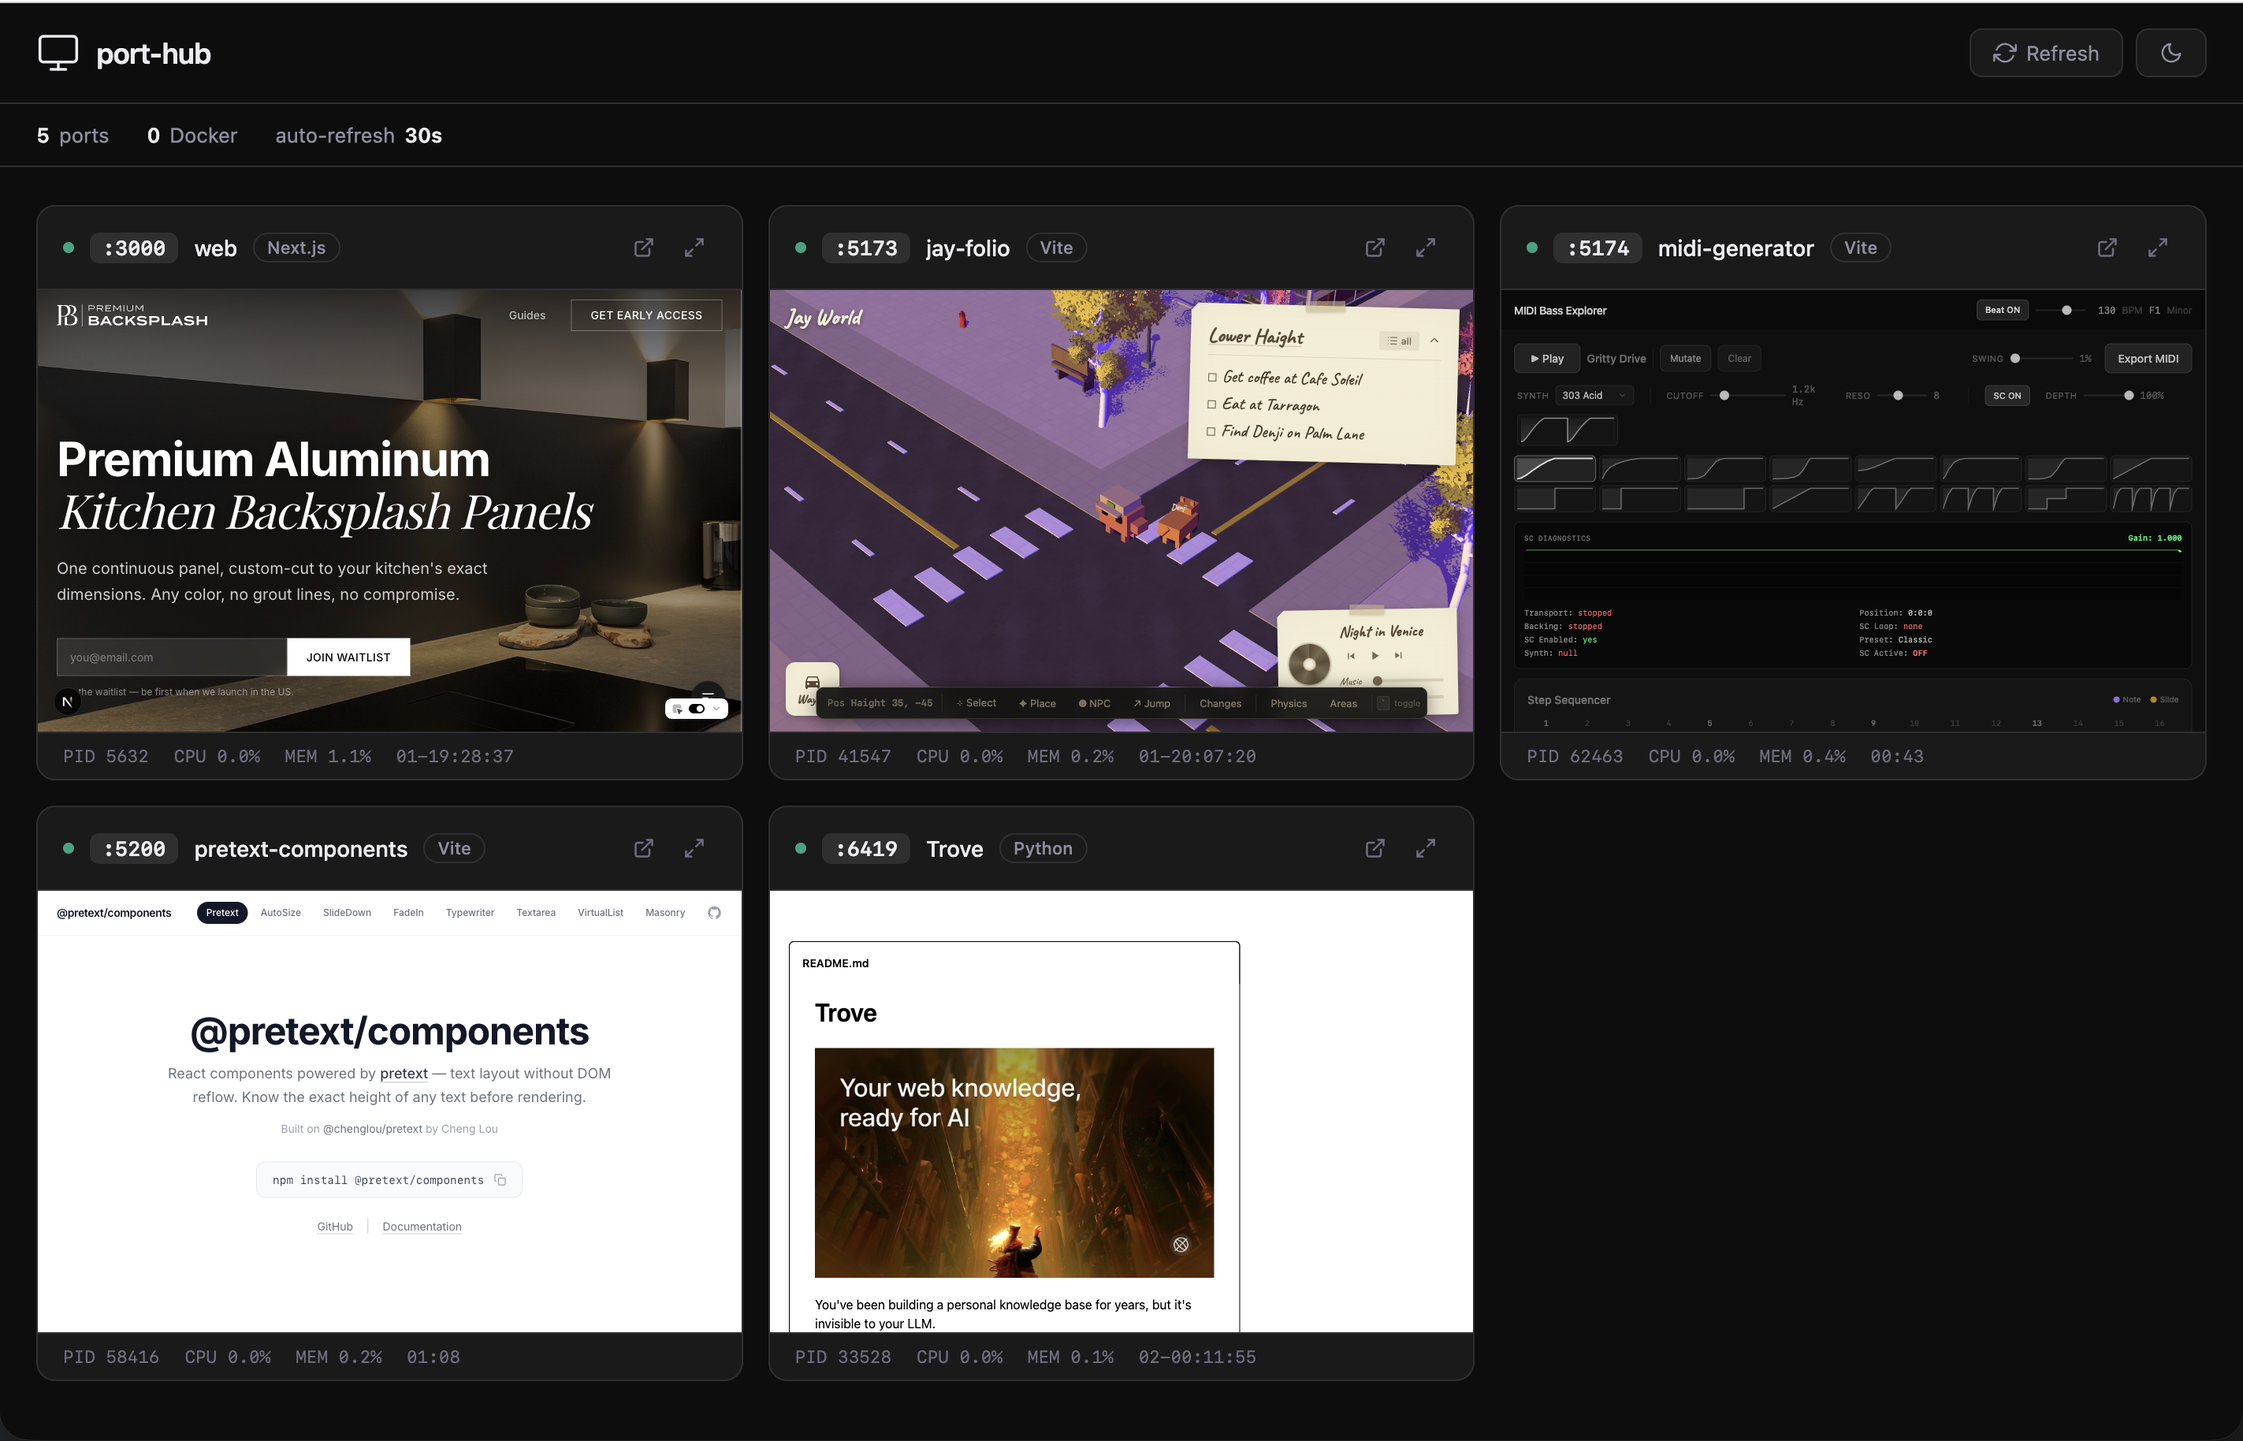
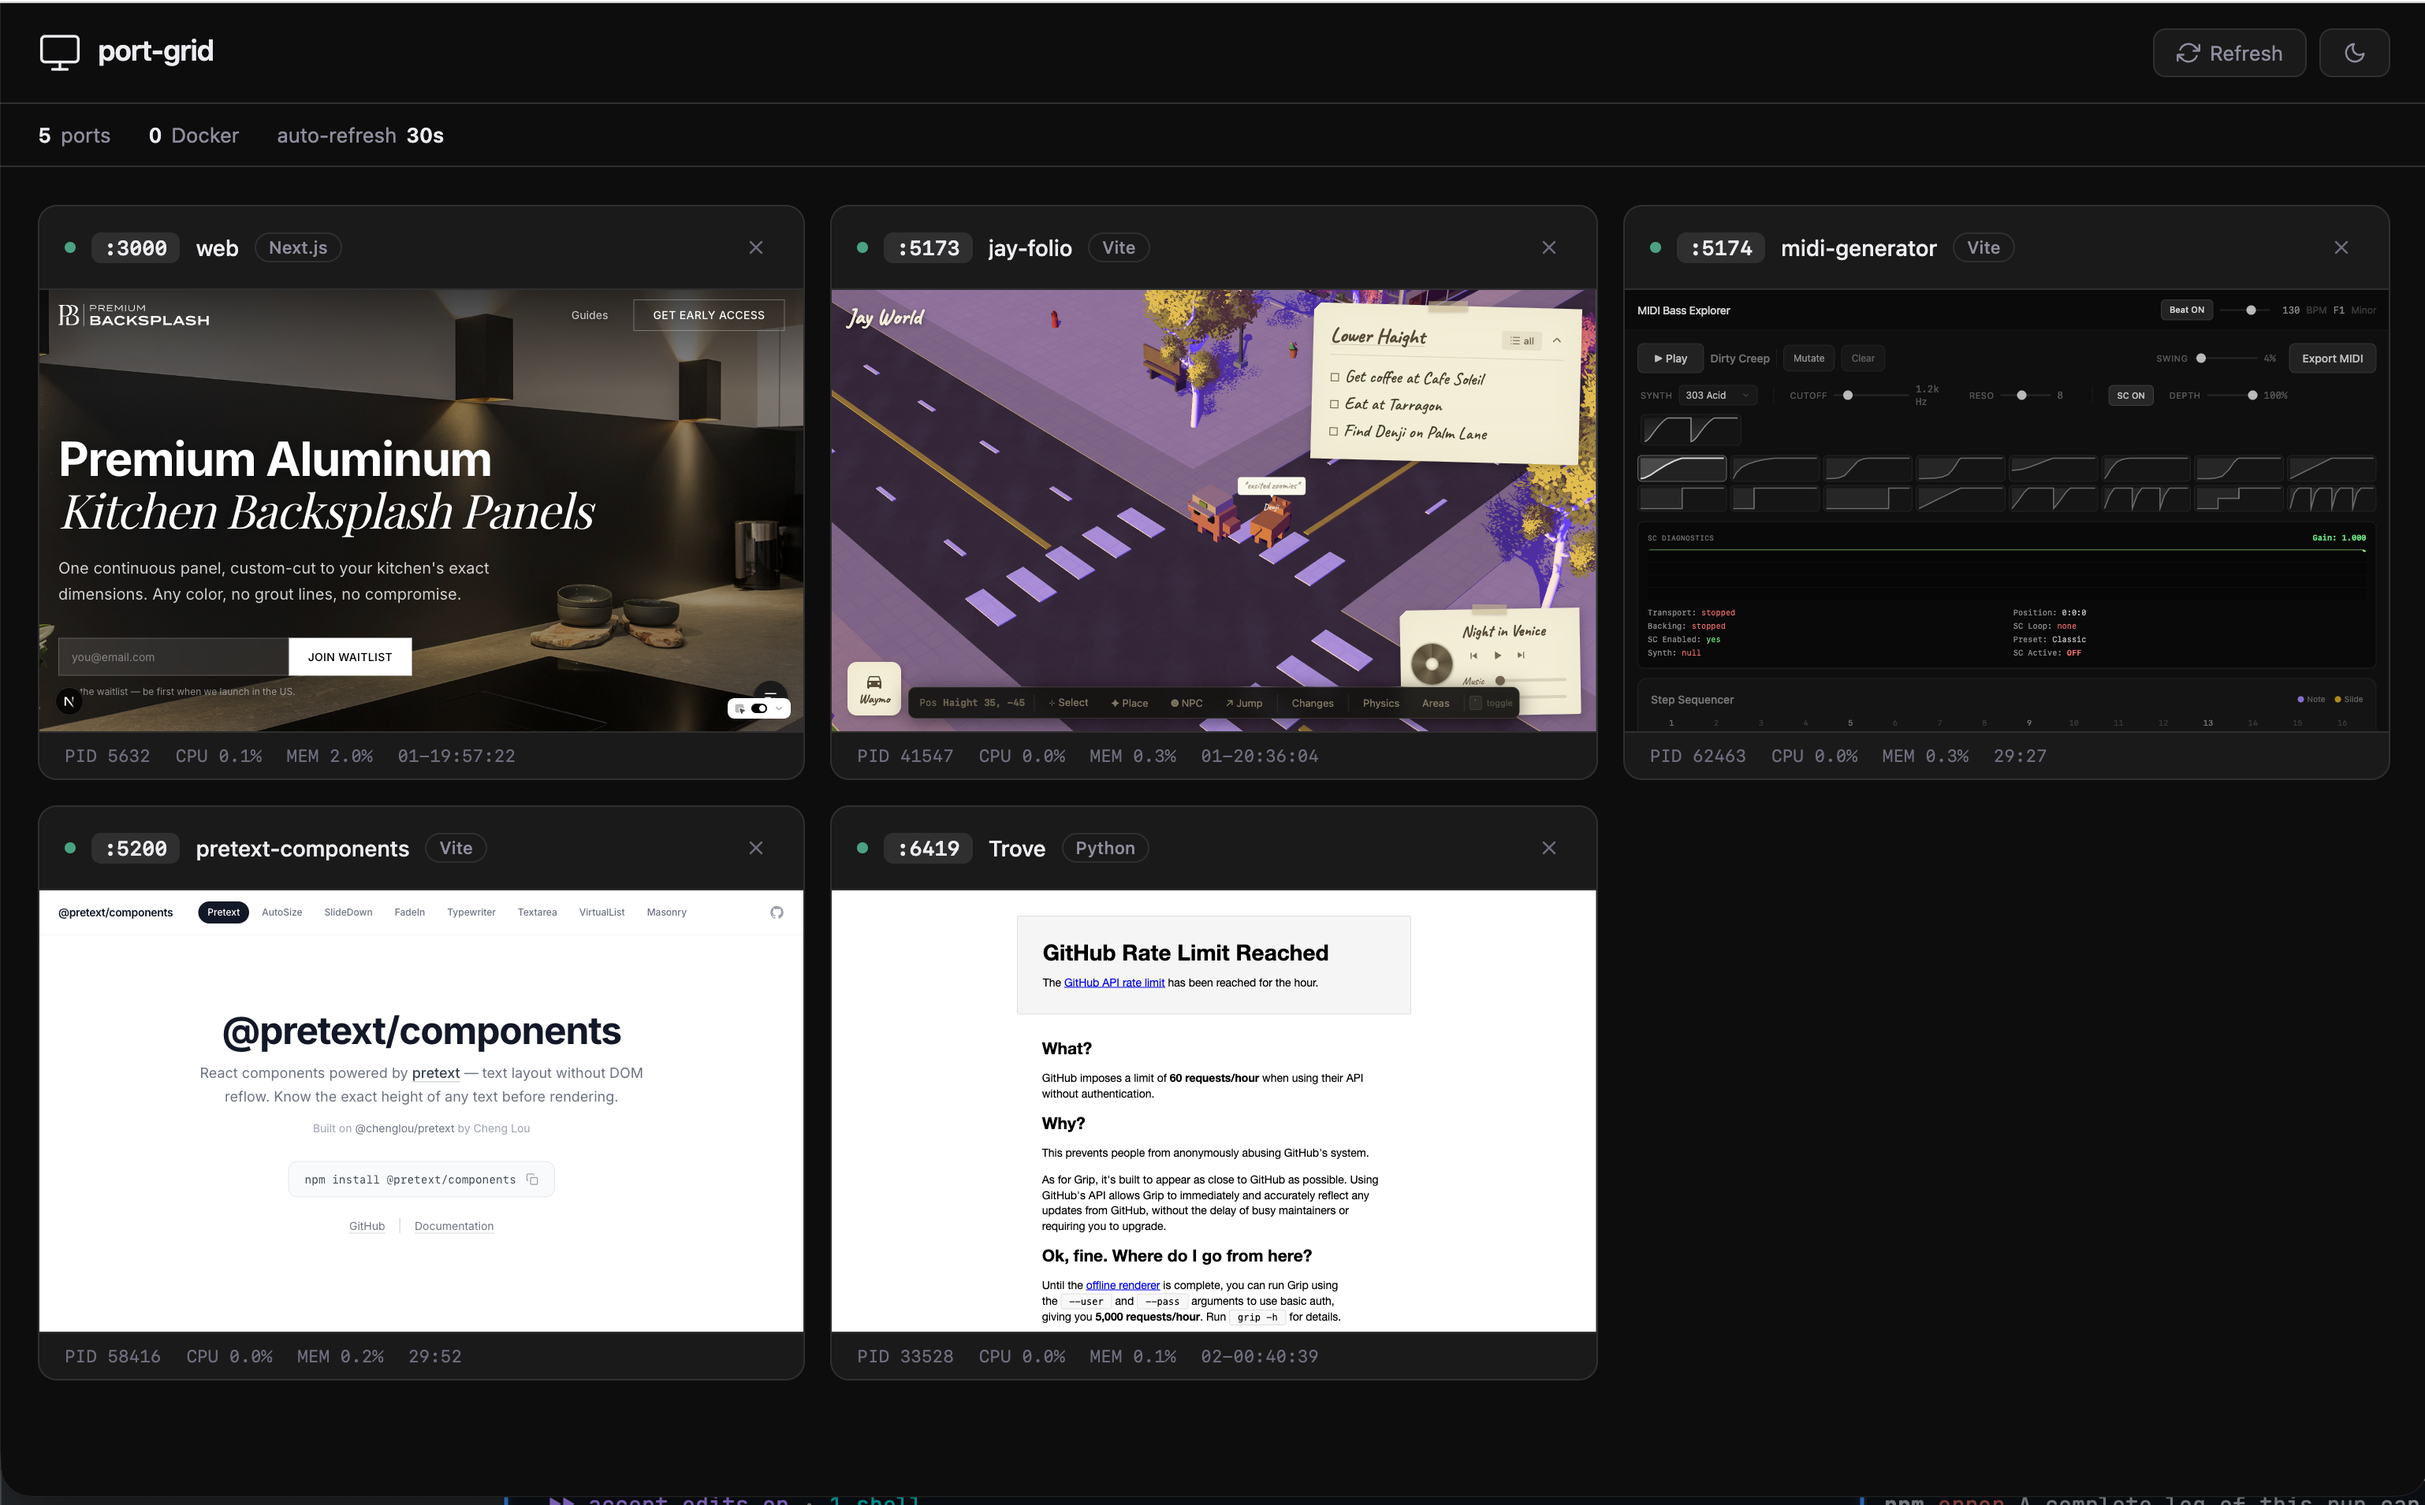
Add kill button, remove modal, clickable cards, loading state

diff --git a/server.js b/server.js
@@ -21,6 +21,24 @@ const server = createServer(async (req, res) => {
     return;
   }
 
+  if (url.pathname === "/api/kill" && req.method === "POST") {
+    const pid = url.searchParams.get("pid");
+    if (!pid || isNaN(pid)) {
+      res.writeHead(400, { "Content-Type": "application/json" });
+      res.end(JSON.stringify({ error: "Invalid PID" }));
+      return;
+    }
+    try {
+      process.kill(parseInt(pid, 10), "SIGTERM");
+      res.writeHead(200, { "Content-Type": "application/json" });
+      res.end(JSON.stringify({ ok: true, pid }));
+    } catch (e) {
+      res.writeHead(500, { "Content-Type": "application/json" });
+      res.end(JSON.stringify({ error: e.message }));
+    }
+    return;
+  }
+
   // Serve the SPA
   res.writeHead(200, { "Content-Type": "text/html" });
   res.end(getHTML());
@@ -100,7 +118,7 @@ function getHTML() {
   }
   .logo { display: flex; align-items: center; gap: 10px; }
   .logo svg { width: 28px; height: 28px; }
-  .logo h1 { font-size: 18px; font-weight: 600; letter-spacing: -0.02em; }
+  .logo h1 { font-size: 18px; font-weight: 600; letter-spacing: -0.02em; position: relative; top: -2px; }
   .header-actions { display: flex; align-items: center; gap: 8px; }
 
   /* Buttons */
@@ -140,6 +158,7 @@ function getHTML() {
     overflow: hidden;
     transition: box-shadow 0.2s, border-color 0.2s;
     display: flex; flex-direction: column;
+    cursor: pointer;
   }
   .card:hover { box-shadow: var(--shadow-hover); border-color: var(--border-hover); }
 
@@ -182,15 +201,16 @@ function getHTML() {
   }
   .status-dot.docker { background: var(--dot-docker); }
 
-  .card-actions { display: flex; gap: 4px; }
+  .card-actions { display: flex; align-items: center; gap: 4px; flex-shrink: 0; }
   .card-btn {
     width: 28px; height: 28px; border-radius: 6px; border: none;
     background: transparent; color: var(--text-tertiary);
-    cursor: pointer; display: flex; align-items: center; justify-content: center;
-    transition: all 0.15s;
+    cursor: pointer; display: inline-flex; align-items: center; justify-content: center;
+    transition: all 0.15s; padding: 0; line-height: 1;
   }
   .card-btn:hover { background: var(--accent-subtle); color: var(--text); }
-  .card-btn svg { width: 14px; height: 14px; }
+  .card-btn.kill-btn:hover { background: rgba(239,68,68,0.1); color: #ef4444; }
+  .card-btn svg { width: 14px; height: 14px; display: block; }
 
   /* Iframe preview */
   .card-preview {
@@ -246,30 +266,6 @@ function getHTML() {
   }
   @keyframes spin { to { transform: rotate(360deg); } }
 
-  /* Expanded view modal */
-  .modal-overlay {
-    position: fixed; inset: 0; z-index: 200;
-    background: rgba(0,0,0,0.6); backdrop-filter: blur(4px);
-    display: flex; align-items: center; justify-content: center;
-    opacity: 0; pointer-events: none;
-    transition: opacity 0.2s;
-  }
-  .modal-overlay.open { opacity: 1; pointer-events: all; }
-  .modal {
-    width: 92vw; height: 88vh;
-    background: var(--bg-card); border-radius: var(--radius);
-    border: 1px solid var(--border);
-    display: flex; flex-direction: column;
-    overflow: hidden;
-    transform: scale(0.96); transition: transform 0.2s;
-  }
-  .modal-overlay.open .modal { transform: scale(1); }
-  .modal-header {
-    display: flex; align-items: center; justify-content: space-between;
-    padding: 12px 16px; border-bottom: 1px solid var(--border);
-  }
-  .modal-header .card-title-group { gap: 12px; }
-  .modal iframe { flex: 1; border: none; width: 100%; }
 
   /* Responsive */
   @media (max-width: 520px) {
@@ -316,35 +312,17 @@ function getHTML() {
 </div>
 
 <div class="grid-container">
-  <div class="grid" id="grid"></div>
-</div>
-
-<!-- Expand modal -->
-<div class="modal-overlay" id="modal">
-  <div class="modal">
-    <div class="modal-header">
-      <div class="card-title-group">
-        <span class="port-badge" id="modalPort"></span>
-        <span class="card-title" id="modalTitle"></span>
-      </div>
-      <div style="display:flex;gap:4px;">
-        <a class="btn" id="modalOpen" href="#" target="_blank" style="text-decoration:none;">
-          <svg viewBox="0 0 24 24" fill="none" stroke="currentColor" stroke-width="2" stroke-linecap="round" stroke-linejoin="round"><path d="M18 13v6a2 2 0 01-2 2H5a2 2 0 01-2-2V8a2 2 0 012-2h6"/><polyline points="15 3 21 3 21 9"/><line x1="10" y1="14" x2="21" y2="3"/></svg>
-          Open
-        </a>
-        <button class="btn" id="modalClose">
-          <svg viewBox="0 0 24 24" fill="none" stroke="currentColor" stroke-width="2" stroke-linecap="round" stroke-linejoin="round"><line x1="18" y1="6" x2="6" y2="18"/><line x1="6" y1="6" x2="18" y2="18"/></svg>
-        </button>
-      </div>
+  <div class="grid" id="grid">
+    <div class="empty-state" id="initialLoading" style="grid-column: 1/-1;">
+      <div class="spinner"></div>
+      <p>Scanning ports...</p>
     </div>
-    <iframe id="modalIframe" src="about:blank"></iframe>
   </div>
 </div>
 
 <script>
 const $ = (s) => document.querySelector(s);
 const grid = $("#grid");
-const modal = $("#modal");
 
 // Theme
 function getPreferredTheme() {
@@ -386,6 +364,8 @@ async function fetchPorts() {
 }
 
 function render(ports) {
+  const loading = $("#initialLoading");
+  if (loading) loading.remove();
   $("#totalCount").textContent = ports.length;
   $("#dockerCount").textContent = ports.filter((p) => p.isDocker).length;
 
@@ -450,17 +430,14 @@ function createCard(p) {
         <span class="framework-tag\${dockerClass}">\${esc(p.framework)}</span>
       </div>
       <div class="card-actions">
-        <button class="card-btn" title="Open in new tab" data-action="open">
-          <svg viewBox="0 0 24 24" fill="none" stroke="currentColor" stroke-width="2" stroke-linecap="round" stroke-linejoin="round"><path d="M18 13v6a2 2 0 01-2 2H5a2 2 0 01-2-2V8a2 2 0 012-2h6"/><polyline points="15 3 21 3 21 9"/><line x1="10" y1="14" x2="21" y2="3"/></svg>
-        </button>
-        <button class="card-btn" title="Expand preview" data-action="expand">
-          <svg viewBox="0 0 24 24" fill="none" stroke="currentColor" stroke-width="2" stroke-linecap="round" stroke-linejoin="round"><polyline points="15 3 21 3 21 9"/><polyline points="9 21 3 21 3 15"/><line x1="21" y1="3" x2="14" y2="10"/><line x1="3" y1="21" x2="10" y2="14"/></svg>
+        <button class="card-btn kill-btn" title="Kill process" data-action="kill" data-pid="\${p.pid}" data-name="\${esc(p.projectName)}">
+          <svg viewBox="0 0 24 24" fill="none" stroke="currentColor" stroke-width="2" stroke-linecap="round" stroke-linejoin="round"><line x1="18" y1="6" x2="6" y2="18"/><line x1="6" y1="6" x2="18" y2="18"/></svg>
         </button>
       </div>
     </div>
     <div class="card-preview">
       <div class="loading"><div class="spinner"></div></div>
-      <div class="iframe-overlay" data-action="expand"></div>
+      <div class="iframe-overlay"></div>
     </div>
     <div class="card-footer">
       <span>PID \${p.pid}</span>
@@ -495,12 +472,15 @@ function createCard(p) {
   // Button handlers
   card.addEventListener("click", (e) => {
     const btn = e.target.closest("[data-action]");
-    if (!btn) return;
-    if (btn.dataset.action === "open") {
-      window.open("http://localhost:" + p.port, "_blank");
-    } else if (btn.dataset.action === "expand") {
-      openModal(p);
+    if (btn) {
+      e.stopPropagation();
+      if (btn.dataset.action === "kill") {
+        killProcess(p.pid, p.projectName, card);
+      }
+      return;
     }
+    // Clicking anywhere else on the card opens in new tab
+    window.open("http://localhost:" + p.port, "_blank");
   });
 
   return card;
@@ -517,22 +497,22 @@ function updateCardMeta(card, p) {
   }
 }
 
-function openModal(p) {
-  $("#modalPort").textContent = ":" + p.port;
-  $("#modalTitle").textContent = p.projectName + " — " + p.framework;
-  $("#modalOpen").href = "http://localhost:" + p.port;
-  $("#modalIframe").src = "http://localhost:" + p.port;
-  modal.classList.add("open");
-}
 
-function closeModal() {
-  modal.classList.remove("open");
-  $("#modalIframe").src = "about:blank";
+async function killProcess(pid, name, card) {
+  try {
+    const res = await fetch(\`/api/kill?pid=\${pid}\`, { method: "POST" });
+    const data = await res.json();
+    if (data.ok) {
+      card.style.opacity = "0.4";
+      card.style.transition = "opacity 0.3s";
+      setTimeout(() => fetchPorts(), 1000);
+    } else {
+      alert("Failed to kill: " + (data.error || "unknown error"));
+    }
+  } catch (e) {
+    alert("Failed to kill process: " + e.message);
+  }
 }
-
-$("#modalClose").onclick = closeModal;
-modal.onclick = (e) => { if (e.target === modal) closeModal(); };
-document.addEventListener("keydown", (e) => { if (e.key === "Escape") closeModal(); });
 
 function esc(s) {
   const d = document.createElement("div");
